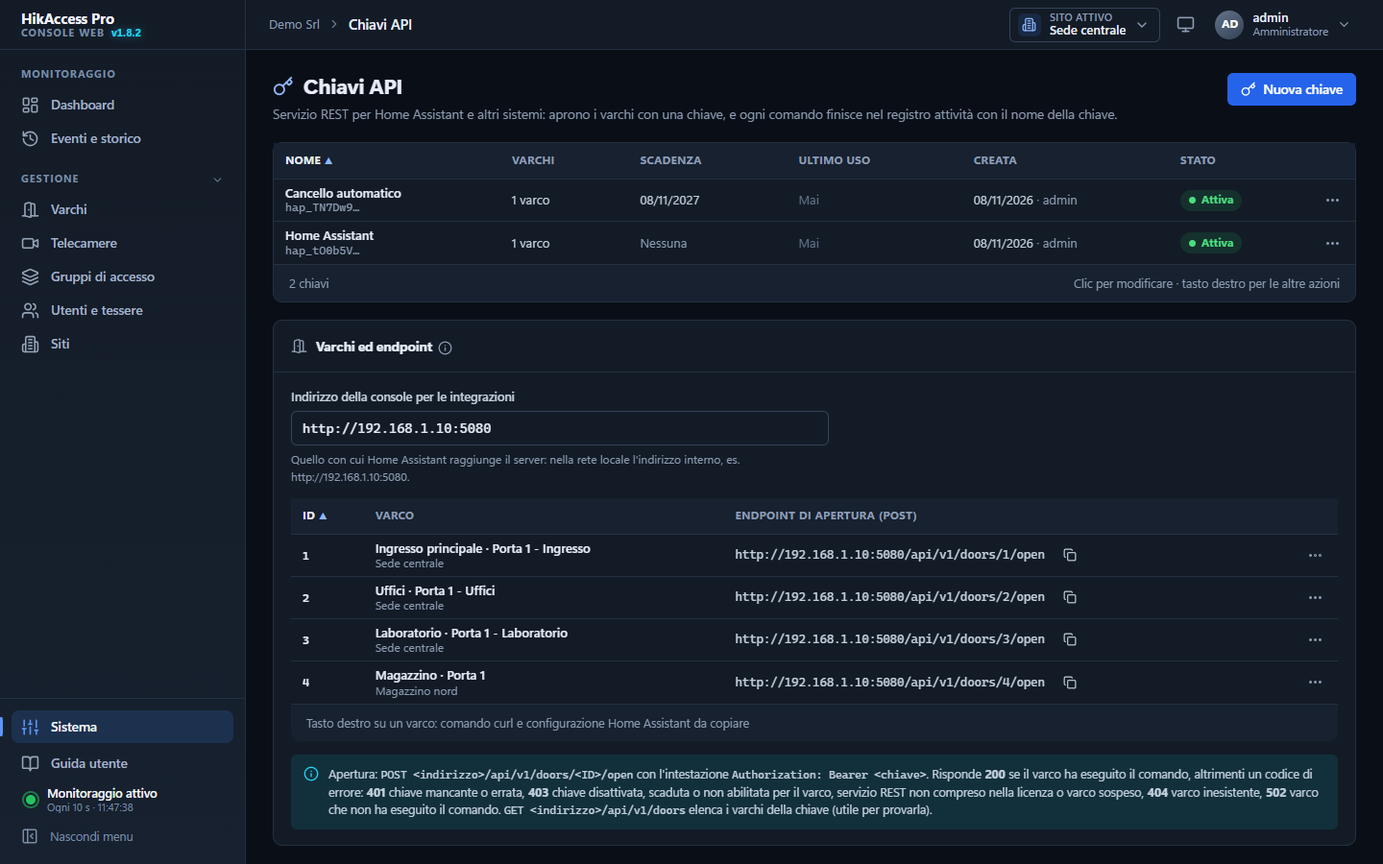
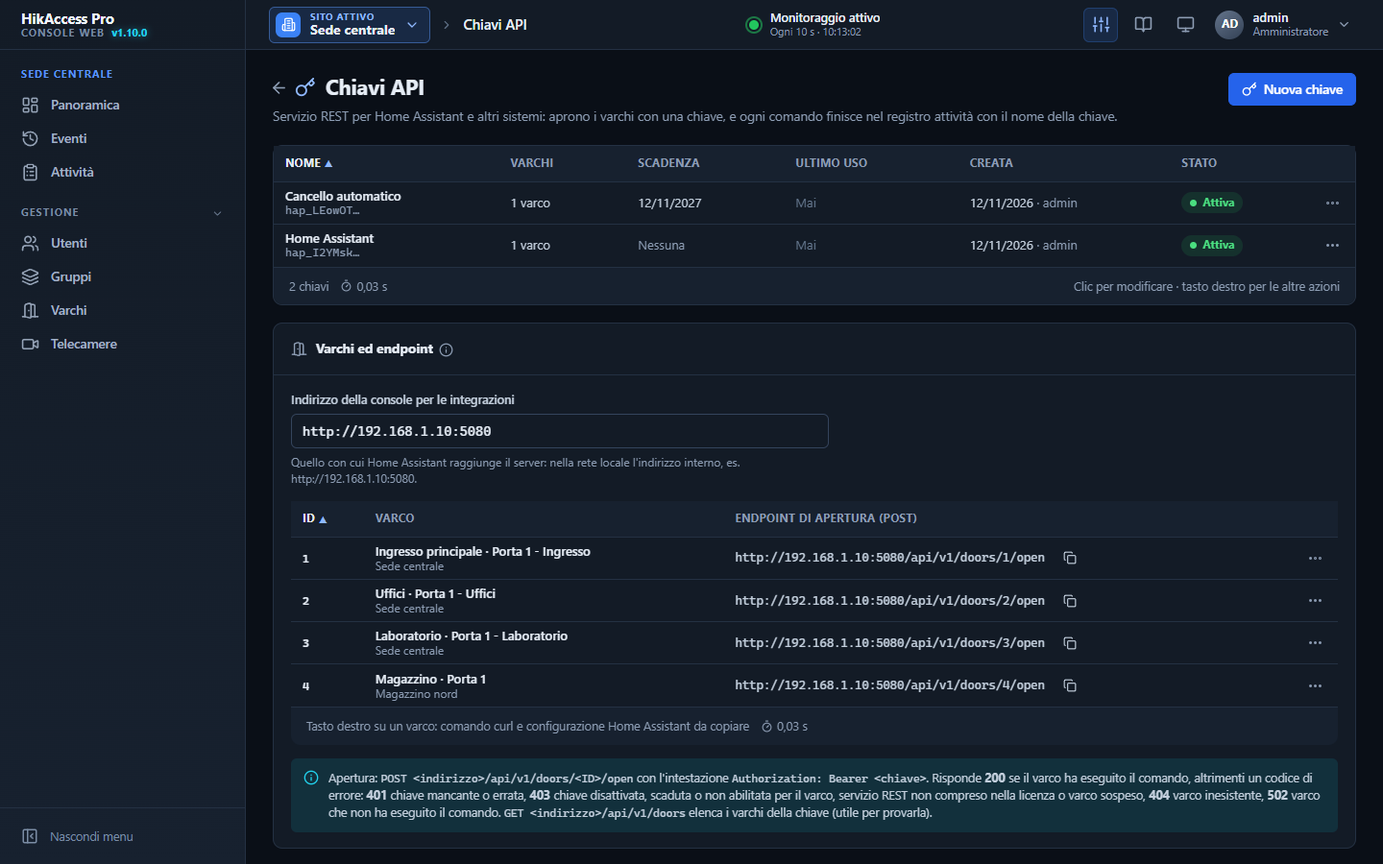
1.10.0: elenchi con filtri e vista a schede, menu del sito, calendario
Registro delle versioni con le novità della 1.10.0, presentazione aggiornata (Panoramica al posto di Dashboard, riquadro
su elenchi e calendario), guida utente rigenerata e immagini della console rifatte con la nuova interfaccia. Nel registro
gli esempi di controller citano solo il modello.

diff --git a/docs/guida-utente.md b/docs/guida-utente.md
@@ -3,11 +3,11 @@
 [← Torna alla presentazione](../README.md) · [Scarica il setup](https://github.com/brn78/HikAccess-Pro-Web/releases/latest)
 
 > [!NOTE]
-> È la stessa guida che si apre nella console con <kbd>F1</kbd> (menu **Guida utente**), aggiornata alla versione **1.9.0**. Nella console le icone <b>(i)</b> accanto ai campi rimandano direttamente al paragrafo giusto.
+> È la stessa guida che si apre nella console con <kbd>F1</kbd> (menu **Guida utente**), aggiornata alla versione **1.10.0**. Nella console le icone <b>(i)</b> accanto ai campi rimandano direttamente al paragrafo giusto.
 
 ## Indice
 
-- [Panoramica](#panoramica)
+- [Introduzione](#introduzione)
 - [Primo avvio e accesso](#accesso)
 - [L'interfaccia](#interfaccia)
 - [Ruoli e permessi](#ruoli)
@@ -15,7 +15,7 @@
 - [Varchi](#varchi)
 - [Gruppi di accesso](#gruppi)
 - [Utenti, tessere e PIN](#utenti)
-- [Dashboard](#dashboard)
+- [Panoramica](#dashboard)
 - [Eventi e storico](#eventi)
 - [Telecamere](#telecamere)
 - [Operazioni in background](#operazioni)
@@ -33,7 +33,7 @@ HikAccess Pro Web è la console per gestire il controllo accessi Hikvision di un
 > [!TIP]
 > **Come orientarsi.** L'indice a lato porta al capitolo desiderato; la casella **Cerca nella guida** evidenzia tutte le occorrenze di una parola (<kbd>Invio</kbd> passa alla successiva). Nelle schede della console le icone ⓘ spiegano il singolo campo e rimandano al punto giusto di questa guida. <kbd>F1</kbd> apre la guida da qualsiasi pagina; **Stampa / PDF** la salva su carta o in un file.
 
-## <a id="panoramica"></a>Panoramica
+## <a id="introduzione"></a>Introduzione
 
 La console è composta da due parti:
 
@@ -76,22 +76,25 @@ Un amministratore può reimpostarla da **Operatori**. Se a non ricordare la pass
 
 ### <a id="interfaccia-menu"></a>Menu laterale e barra superiore
 
-- Il **menu laterale** ha in alto **Monitoraggio** ( Dashboard, Eventi e storico) e **Gestione** ( Varchi, Telecamere, Gruppi, Utenti e tessere, Siti). Il gruppo Gestione si chiude con un clic sul titolo ⌄: il browser ricorda la scelta, e il gruppo si riapre da solo quando arrivi su una sua pagina. Accanto a «Console web» c'è la **versione in uso**. Il titolo di ogni pagina riporta la stessa icona della sua voce di menu.
-- In fondo al menu: **Sistema** ⚙ (solo amministratori) apre la [pagina con le funzioni di amministrazione](#sistema); un pallino sull'icona segnala una nuova versione o una [licenza](#sistema-licenza) da guardare (rosso se non è valida). Poi **Guida utente** 📖, la riga **Monitoraggio varchi** (scansione automatica attiva e ultima lettura; clic per la Dashboard) e **Nascondi menu** , che riduce il menu alle sole icone (con il monogramma «HA»). Il browser ricorda la scelta, a parte per le finestre strette, dove il menu parte ridotto; su telefono il menu si apre con ☰.
-- Nella **barra superiore** trovi il nome dell'impianto e della pagina, il contatore delle [operazioni in corso](#operazioni), il **selettore del sito attivo**, il pulsante del **tema** (chiaro, scuro o automatico come il sistema) e il menu con il tuo nome (profilo, impostazioni, guida, uscita).
+- Il **menu laterale** ha in alto il gruppo del **sito attivo**, che ne porta il nome: Panoramica, Eventi e, solo per gli amministratori, Attività (il [registro attività](#sistema-registro), che riguarda tutti i siti). Sotto c'è **Gestione**: Utenti, Gruppi, Varchi e Telecamere. Il gruppo Gestione si chiude con un clic sul titolo ⌄: il browser ricorda la scelta, e il gruppo si riapre da solo quando arrivi su una sua pagina. Accanto a «Console web» c'è la **versione in uso**. Il titolo di ogni pagina riporta la stessa icona della sua voce di menu. I [siti](#siti) non sono nel menu: si aprono dal selettore del sito in alto (**Gestisci siti…**, **Elenco siti** per chi non è amministratore) e dalla pagina Sistema.
+- In fondo al menu c'è **Nascondi menu** , che riduce il menu alle sole icone (con il monogramma «HA»). Il browser ricorda la scelta, a parte per le finestre strette, dove il menu parte ridotto; su telefono il menu si apre con ☰ e ha in fondo anche **Sistema** e **Guida utente**.
+- Nella **barra superiore** trovi a sinistra il **selettore del sito attivo** e il nome della pagina; al centro lo stato del **Monitoraggio varchi** (scansione automatica attiva e ora dell'ultima lettura; un clic porta alla Panoramica); a destra il contatore delle [operazioni in corso](#operazioni), le icone **Sistema** ⚙ (solo amministratori: apre la [pagina con le funzioni di amministrazione](#sistema); un pallino sull'icona segnala una nuova versione o una [licenza](#sistema-licenza) da guardare, rosso se non è valida) e **Guida utente** 📖, il pulsante del **tema** (chiaro, scuro o automatico come il sistema) e il menu con il tuo nome (profilo, impostazioni, guida, uscita).
 
 ### <a id="interfaccia-sito"></a>Il sito attivo
 
-Il **selettore del sito attivo** è in alto a sinistra, prima del nome della pagina: Dashboard, Varchi, Gruppi, Telecamere, Eventi e Utenti mostrano solo quel sito, perché ogni sito ha i suoi varchi, i suoi gruppi e le sue persone (una persona si può condividere con altri siti, vedi [Persone e siti](#utenti-siti)). Al cambio di sito il selettore pulsa e un avviso ricorda in quale sito stai lavorando, con la sua descrizione e i suoi numeri. Il sito scelto viene ricordato dal browser.
+Il **selettore del sito attivo** è in alto a sinistra, prima del nome della pagina: Panoramica, Varchi, Gruppi, Telecamere, Eventi e Utenti mostrano solo quel sito, perché ogni sito ha i suoi varchi, i suoi gruppi e le sue persone (una persona si può condividere con altri siti, vedi [Persone e siti](#utenti-siti)). Al cambio di sito il selettore pulsa e un avviso ricorda in quale sito stai lavorando, con la sua descrizione e i suoi numeri. Il sito scelto viene ricordato dal browser.
 
 ### <a id="interfaccia-tabelle"></a>Tabelle, schede e menu
 
-- Clic sull'intestazione di una colonna per **ordinare**; le caselle e i pulsanti sopra la tabella **filtrano**.
-- Regola unica in tutta la console: **un clic** su una riga, su un riquadro della dashboard o su un passaggio apre la scheda corrispondente (in sola consultazione per chi non può modificare); il **tasto destro** o il pulsante ⋯ aprono il menu delle azioni. Il piè di pagina di ogni tabella lo ricorda.
+- Clic sull'intestazione di una colonna per **ordinare**. Sopra la tabella, la **ricerca** filtra mentre scrivi; i filtri a tendina (gruppo, varco, tipo di evento, categoria) stanno nella finestra che si apre con l'imbuto : il numero sull'icona dice quanti sono attivi e sotto la barra compaiono le loro etichette, con la × per toglierli uno alla volta o **Togli tutti**. Le scelte rapide (Tutti, Online, Offline…) e il periodo restano nella barra; **Filtri…** è anche nel menu del tasto destro delle righe.
+- **Elenco o Schede**: in alto a destra della tabella scegli la vista. In **Schede** ogni voce è descritta per intero, comprese le colonne che nell'elenco si nascondono sugli schermi stretti, e si ordina con l'icona . Il browser ricorda la vista scelta per ogni elenco; sul telefono gli elenchi sono sempre a schede.
+- In basso a sinistra c'è il **numero delle righe** («3 di 7 utenti» quando la ricerca o un filtro ne nascondono alcune) con il tempo impiegato dal caricamento . L'elenco che chiude la pagina arriva fino in fondo alla finestra e scorre al suo interno, con la riga dei titoli sempre in vista; gli elenchi lunghi si disegnano 200 righe alla volta e le successive arrivano scorrendo, o con **Mostra altre**.
+- Regola unica in tutta la console: **un clic** su una riga, su un riquadro della Panoramica o su un passaggio apre la scheda corrispondente (in sola consultazione per chi non può modificare); il **tasto destro** o il pulsante ⋯ aprono il menu delle azioni. Il piè di pagina di ogni tabella lo ricorda.
 - Le schede di modifica si aprono in un **pannello laterale**; <kbd>Esc</kbd>, **Annulla** o un clic fuori le chiudono senza salvare. Se hai cambiato qualcosa, la console chiede prima conferma (**Chiudi senza salvare** oppure **Continua a modificare**), anche quando cambi pagina con il menu, con <kbd>F1</kbd> o con il tasto Indietro del browser.
-- **Selezione multipla** (pagine Utenti e Varchi, per amministratori e operatori): la casella all'inizio della riga la seleziona, quella nell'intestazione seleziona tutte le righe visualizzate; tenendo premuto <kbd>Maiusc</kbd> si seleziona l'intervallo dall'ultima casella toccata. Con almeno una riga scelta compare sopra la tabella la barra delle **operazioni sulle righe selezionate**, con il loro numero e **Deseleziona**. La selezione vale per le righe visualizzate: quelle tolte da un filtro o dalla ricerca escono dalla selezione, così un'operazione non tocca mai righe che non vedi.
+- **Selezione multipla** (pagine Utenti e Varchi, per amministratori e operatori): l'icona **Scegli più righe** , la prima in alto a sinistra della tabella, mostra le caselle. La casella all'inizio della riga la seleziona, quella nell'intestazione seleziona tutte le righe dell'elenco; tenendo premuto <kbd>Maiusc</kbd> si seleziona l'intervallo dall'ultima casella toccata. Con almeno una riga scelta compare sopra la tabella la barra delle **operazioni sulle righe selezionate**, con il loro numero e **Deseleziona**; le stesse operazioni sono nel menu del tasto destro su una delle righe scelte. Premendo di nuovo l'icona le caselle spariscono e la selezione si toglie. La selezione vale per le righe dell'elenco: quelle tolte da un filtro o dalla ricerca ne escono, così un'operazione non tocca mai righe che non vedi.
 - Le conferme e gli esiti compaiono come **notifiche** in alto a destra; gli errori restano più a lungo. Alcune notifiche hanno un pulsante (**Vedi log**, **Dettagli**) per aprire il resoconto completo.
 - I testi di esito, dettaglio e diagnostica (per esempio l'esito di **Sincronizza orario** varco per varco) hanno in alto a destra il pulsante ⧉ per copiarli negli appunti.
+- I **campi data** hanno a destra l'icona : un clic nel campo o sull'icona apre il **calendario**, con il lunedì in testa, oggi cerchiato, le domeniche e le [festività](#gruppi-festivita) dell'impianto in rosso e, sotto il mese, il giorno per esteso con il nome della festa. Un clic sul titolo passa ai mesi e poi agli anni; **Oggi** riporta alla data di oggi. Nei campi con data e ora (la validità di una persona) accanto al mese c'è l'elenco delle ore, ogni mezz'ora. La data si può sempre scrivere a mano, e il calendario la segue.
 - I campi contrassegnati da \* sono obbligatori.
 
 ### <a id="interfaccia-scorciatoie"></a>Scorciatoie da tastiera
@@ -105,6 +108,9 @@ Il **selettore del sito attivo** è in alto a sinistra, prima del nome della pag
 | <kbd>Tab</kbd> | Passa al comando successivo; con una finestra o una scheda aperta resta al suo interno. |
 | <kbd>Invio</kbd> o <kbd>Spazio</kbd> su un'intestazione | Ordina la tabella per quella colonna (le intestazioni si raggiungono con <kbd>Tab</kbd>). |
 | <kbd>Maiusc</kbd> + clic su una casella | Seleziona o deseleziona tutte le righe tra l'ultima casella toccata e questa. |
+| <kbd>Invio</kbd> su una riga | Apre la scheda, come il clic (le righe si raggiungono con <kbd>Tab</kbd>); <kbd>↑</kbd> <kbd>↓</kbd> passano alla riga sopra o sotto, il tasto Menu (o <kbd>Maiusc</kbd>+<kbd>F10</kbd>) apre il menu della riga. |
+| <kbd>↑</kbd> <kbd>↓</kbd> <kbd>Pag↑</kbd> <kbd>Pag↓</kbd> <kbd>Inizio</kbd> <kbd>Fine</kbd> | Scorrono l'elenco che occupa la pagina, quando il cursore non è in un campo. |
+| <kbd>Alt</kbd>+<kbd>↓</kbd> o <kbd>F4</kbd> in un campo data | Apre il calendario e ci porta il cursore: le frecce cambiano giorno, <kbd>Pag↑</kbd> e <kbd>Pag↓</kbd> il mese (con <kbd>Maiusc</kbd> l'anno), <kbd>Inizio</kbd> e <kbd>Fine</kbd> vanno a lunedì e domenica, <kbd>Invio</kbd> sceglie, <kbd>Esc</kbd> chiude. |
 
 ## <a id="ruoli"></a>Ruoli e permessi
 
@@ -112,7 +118,7 @@ Ogni account ha uno dei tre ruoli. Assegna a ciascuno il minimo necessario: la p
 
 | Funzione | Amministratore | Operatore | Sola lettura |
 | --- | :---: | :---: | :---: |
-| Dashboard, stato dei varchi, storico eventi | ✓ | ✓ | ✓ |
+| Panoramica, stato dei varchi, storico eventi | ✓ | ✓ | ✓ |
 | Video delle telecamere e immagini degli eventi | ✓ | ✓ | ✓ |
 | Elenchi di varchi, gruppi e utenti | ✓ | ✓ | solo consultazione, senza PIN |
 | Comandi porta (apri, chiudi, sblocco e blocco permanente), orologio, diagnostica | ✓ | ✓ | — |
@@ -129,18 +135,18 @@ Deve restare sempre almeno un amministratore abilitato: la console impedisce di 
 
 ## <a id="siti"></a>Siti
 
-Pagina **Siti** (modifiche riservate agli amministratori). Un sito è una sede con i propri varchi, gruppi, telecamere e persone: un sito nuovo nasce vuoto e quello che fai in un sito resta lì. Chi lavora in più sedi si **condivide** tra i siti (la matricola resta unica in tutto l'impianto, vedi [Persone e siti](#utenti-siti)).
+Pagina **Siti** (modifiche riservate agli amministratori): si apre dal selettore del sito in alto, con **Gestisci siti…** (**Elenco siti** per chi non è amministratore), o dalla pagina [Sistema](#sistema). Un sito è una sede con i propri varchi, gruppi, telecamere e persone: un sito nuovo nasce vuoto e quello che fai in un sito resta lì. Chi lavora in più sedi si **condivide** tra i siti (la matricola resta unica in tutto l'impianto, vedi [Persone e siti](#utenti-siti)).
 
 - **Nuovo sito**: nome e descrizione (la descrizione compare nell'avviso al cambio di sito). Alla creazione la console propone di renderlo attivo per aggiungere subito varchi e gruppi. La versione gratuita gestisce un solo sito; i siti oltre la [licenza](#sistema-licenza) sono segnati **Oltre la licenza** e i loro varchi sono sospesi.
 - **Rendi attivo**: cambia il sito attivo (equivale al selettore in alto a sinistra); un avviso conferma nome e descrizione del sito in cui stai lavorando.
 - **Elimina sito**: possibile solo se il sito non ha varchi, gruppi, telecamere né persone presenti solo lì, e mai per l'ultimo sito rimasto. Le persone condivise con altri siti perdono soltanto questo sito.
 
 > [!TIP]
-> Con un solo impianto basta il sito predefinito. Crea più siti quando le sedi hanno varchi, regole e persone distinte: ogni sito ha i suoi gruppi, le sue persone e la sua dashboard, e condividi solo chi deve entrare in più sedi.
+> Con un solo impianto basta il sito predefinito. Crea più siti quando le sedi hanno varchi, regole e persone distinte: ogni sito ha i suoi gruppi, le sue persone e la sua Panoramica, e condividi solo chi deve entrare in più sedi.
 
 ## <a id="varchi"></a>Varchi
 
-Pagina **Varchi**: tutti i terminali e le porte dei controller del sito attivo, con stato, canale di comunicazione, arrivo degli eventi, dispositivo, tempo di risposta e ultimo contatto. La colonna **Dispositivo** mostra il modello, ricavato dal seriale Hikvision (per esempio DS-K2602T), con il firmware sotto; il seriale completo compare passando con il mouse e si può cercare. I comandi sono nel menu del tasto destro; **Scansiona tutti** interroga subito tutti i varchi del sito. Con le caselle all'inizio delle righe si eseguono alcune operazioni su più varchi insieme (vedi [Operazioni su più varchi](#varchi-multipli)).
+Pagina **Varchi**: tutti i terminali e le porte dei controller del sito attivo, con stato, canale di comunicazione, arrivo degli eventi, dispositivo, tempo di risposta e ultimo contatto. La colonna **Dispositivo** mostra il modello, ricavato dal seriale Hikvision (per esempio DS-K2602T), con il firmware sotto; il seriale completo compare passando con il mouse e si può cercare. I comandi sono nel menu del tasto destro; **Scansiona tutti** interroga subito tutti i varchi del sito. Con **Scegli più righe** si eseguono alcune operazioni su più varchi insieme (vedi [Operazioni su più varchi](#varchi-multipli)).
 
 ### <a id="varchi-aggiungere"></a>Aggiungere un varco
 
@@ -185,11 +191,11 @@ La console tratta le porte dello stesso controller come un unico dispositivo: og
 - **In verifica**: il varco non è ancora stato interrogato (appena aggiunto o server appena avviato).
 - **Sospeso**: il varco supera i varchi consentiti dalla [licenza](#sistema-licenza). Resta configurato, ma non viene monitorato, non riceve comandi né utenti e non legge tessere; sopra l'elenco un avviso indica quanti sono.
 
-Lo stato viene aggiornato dalla **scansione automatica** del server (intervallo impostabile in [Impostazioni](#sistema-impostazioni), predefinito ogni 10 secondi) e a richiesta con **Scansiona tutti** o con **Aggiorna adesso** nella dashboard. La scansione legge anche i nuovi eventi.
+Lo stato viene aggiornato dalla **scansione automatica** del server (intervallo impostabile in [Impostazioni](#sistema-impostazioni), predefinito ogni 10 secondi) e a richiesta con **Scansiona tutti** o con **Aggiorna adesso** nella Panoramica. La scansione legge anche i nuovi eventi.
 
 ### <a id="varchi-tempo-reale"></a>Eventi in tempo reale
 
-Oltre alla scansione, il server tiene aperto con ogni controller un **collegamento in tempo reale** (HTTP: flusso di notifiche del dispositivo; SDK: armamento, come in iVMS-4200): il controller vi invia ogni passaggio appena avviene, che arriva in archivio, nella dashboard e nella **Cattura da varco** entro un secondo. La colonna **Eventi** della pagina Varchi ne mostra lo stato e nei riquadri della dashboard il simbolo indica i varchi collegati:
+Oltre alla scansione, il server tiene aperto con ogni controller un **collegamento in tempo reale** (HTTP: flusso di notifiche del dispositivo; SDK: armamento, come in iVMS-4200): il controller vi invia ogni passaggio appena avviene, che arriva in archivio, nella Panoramica e nella **Cattura da varco** entro un secondo. La colonna **Eventi** della pagina Varchi ne mostra lo stato e nei riquadri della Panoramica il simbolo indica i varchi collegati:
 
 | Stato | Significato |
 | --- | --- |
@@ -205,7 +211,7 @@ Se un controller, con il collegamento aperto, smette di rispondere alle altre ri
 
 ### <a id="varchi-comandi"></a>Comandi porta
 
-Disponibili ad amministratori e operatori dal menu del varco (pagina Varchi, dashboard ed eventi):
+Disponibili ad amministratori e operatori dal menu del varco (pagina Varchi, Panoramica ed eventi):
 
 | Comando | Effetto |
 | --- | --- |
@@ -245,7 +251,7 @@ I dispositivi Hikvision bloccano per un certo tempo (di solito 30 minuti) un acc
 
 ### <a id="varchi-multipli"></a>Operazioni su più varchi
 
-Seleziona i varchi con le caselle all'inizio delle righe (amministratori e operatori); nella barra sopra la tabella:
+Premi **Scegli più righe** e seleziona i varchi con le caselle all'inizio delle righe (amministratori e operatori); nella barra sopra la tabella:
 
 - **Invia utenti**: scrive **tutti gli utenti** dell'anagrafica sui controller selezionati, ciascuno con i suoi permessi attuali (concesso dove autorizzato, tolto dove no). Prima completa le [revoche in sospeso](#utenti-revoche) di quei controller. È il modo giusto dopo la **sostituzione o il ripristino** di un controller, senza riscrivere tutto l'impianto come il deploy atomico.
 - **Ricevi utenti**: legge persone e tessere dai controller selezionati e le unisce all'anagrafica (vedi [Ricevere gli utenti](#utenti-ricevere)); un controller con più porte selezionate viene letto una volta sola.
@@ -259,7 +265,7 @@ Dal menu del varco (amministratori): **Modifica parametri varco**, **Nuovo varco
 
 ## <a id="gruppi"></a>Gruppi di accesso
 
-Pagina **Gruppi di accesso**. Un gruppo è un **modello** di varchi autorizzati del sito attivo, ad esempio "Tutti i varchi", "Solo uffici", "Magazzino e carico". Serve a non dover spuntare i varchi uno per uno per ogni persona.
+Pagina **Gruppi**. Un gruppo è un **modello** di varchi autorizzati del sito attivo, ad esempio "Tutti i varchi", "Solo uffici", "Magazzino e carico". Serve a non dover spuntare i varchi uno per uno per ogni persona.
 
 - **Creare un gruppo**: nome, descrizione e spunta dei varchi del sito.
 - **Assegnarlo a un utente**: nella scheda utente, scegliendo un gruppo nel campo **Gruppo** i varchi spuntati diventano quelli del gruppo (l'avviso che compare ha il pulsante **Annulla** per tornare alle spunte di prima); puoi poi aggiungere o togliere varchi per quella persona. Scegliendo **Nessun gruppo** le spunte restano come sono. Il pulsante **Da gruppo** ricarica in qualsiasi momento i varchi del modello. Per assegnare un gruppo a molte persone insieme usa la [selezione multipla](#utenti-multipli) nella pagina Utenti.
@@ -304,7 +310,7 @@ Nella scheda di un gruppo con **Giorni e fasce orarie**, la riga **Festività** 
 
 ## <a id="utenti"></a>Utenti, tessere e PIN
 
-Pagina **Utenti e tessere**: le persone del sito attivo, comprese quelle condivise da altri siti (per le persone di un'altra sede cambia sito attivo, vedi [Persone e siti](#utenti-siti)). La colonna **Varchi sito** indica su quanti varchi del sito attivo la persona è autorizzata; i filtri sopra la tabella mostrano tutti, solo gli autorizzati sul sito, chi non ha varchi o i disabilitati. La ricerca lavora su nome, matricola e numeri di tessera. Per trovare il titolare di una tessera che hai in mano usa [Identifica badge](#utenti-identifica). Con le caselle all'inizio delle righe si opera su più persone insieme (vedi [Operazioni su più utenti](#utenti-multipli)).
+Pagina **Utenti**: le persone del sito attivo, comprese quelle condivise da altri siti (per le persone di un'altra sede cambia sito attivo, vedi [Persone e siti](#utenti-siti)). La colonna **Varchi sito** indica su quanti varchi del sito attivo la persona è autorizzata; i filtri sopra la tabella mostrano tutti, solo gli autorizzati sul sito, chi non ha varchi o i disabilitati. La ricerca lavora su nome, matricola e numeri di tessera. Per trovare il titolare di una tessera che hai in mano usa [Identifica badge](#utenti-identifica). Con **Scegli più righe** si opera su più persone insieme (vedi [Operazioni su più utenti](#utenti-multipli)).
 
 La scheda di una persona si apre sempre con i dati attuali del server, anche se l'elenco è stato caricato da un po'. Se nel frattempo un altro operatore (o una ricezione dai varchi) modifica la stessa persona, al salvataggio la console avvisa che la scheda «è stata modificata dopo che l'hai aperta» e propone **Riapri con i dati attuali**: così una scheda vecchia non toglie tessere o varchi aggiunti da altri. Annota prima le modifiche che vuoi rifare.
 
@@ -387,7 +393,7 @@ Con gli [eventi in tempo reale](#varchi-tempo-reale) attivi il numero compare no
 
 ### <a id="utenti-multipli"></a>Operazioni su più utenti
 
-Seleziona le persone con le caselle all'inizio delle righe (con i filtri e la ricerca puoi prima restringere l'elenco, poi usare la casella nell'intestazione per prenderle tutte). Nella barra sopra la tabella:
+Premi **Scegli più righe** e seleziona le persone con le caselle all'inizio delle righe (con i filtri e la ricerca puoi prima restringere l'elenco, poi usare la casella nell'intestazione per prenderle tutte). Nella barra sopra la tabella:
 
 - **Invia ai varchi**: **Tutti i varchi interessati** scrive ogni persona dove è autorizzata, in tutti i siti, e la toglie dagli altri varchi del sito attivo; **Solo alcuni varchi** la scrive soltanto sui controller dei varchi che spunti (per esempio un controller appena sostituito). Una sola operazione, annullabile, con il log per persona e controller.
 - **Assegna gruppo**: assegna un gruppo del sito (o **Nessun gruppo**); con **Applica i varchi del gruppo** i varchi del gruppo sostituiscono quelli del sito di ciascuna persona, con **Invia subito ai varchi** le persone vengono inviate con le fasce orarie del gruppo.
@@ -396,7 +402,7 @@ Seleziona le persone con le caselle all'inizio delle righe (con i filtri e la ri
 
 ### <a id="utenti-revoche"></a>Revoche in sospeso
 
-Quando togli una tessera, disabiliti o elimini una persona mentre un controller non risponde (spento, rete interrotta), quel controller continuerebbe ad accettare le tessere. La console annota la revoca **in sospeso** e la ritenta da sola ogni minuto e prima di ogni invio di utenti a quel controller, finché non riesce. Finché ce ne sono, in cima alla dashboard e alla pagina Utenti compare l'avviso **Revoche in sospeso**:
+Quando togli una tessera, disabiliti o elimini una persona mentre un controller non risponde (spento, rete interrotta), quel controller continuerebbe ad accettare le tessere. La console annota la revoca **in sospeso** e la ritenta da sola ogni minuto e prima di ogni invio di utenti a quel controller, finché non riesce. Finché ce ne sono, in cima alla Panoramica e alla pagina Utenti compare l'avviso **Revoche in sospeso**:
 
 - **Dettagli**: persona, tessere da togliere, controller, da quando e quanti tentativi, con l'ultimo errore;
 - **Riprova ora** (amministratori e operatori): ritenta subito, con il log dell'esito.
@@ -413,9 +419,9 @@ Dal menu del tasto destro sulla riga:
 - **Copia numero badge** / **Copia matricola** negli appunti.
 - **Elimina utente da anagrafica e varchi**: cancella la persona dalla console e da **tutti i varchi di tutti i siti**; le sue tessere smettono di aprire. L'operazione mostra l'esito per ogni varco.
 
-## <a id="dashboard"></a>Dashboard
+## <a id="dashboard"></a>Panoramica
 
-La **Dashboard** è il quadro d'insieme del sito attivo:
+La **Panoramica** è il quadro d'insieme del sito attivo:
 
 - **Indicatori**: varchi totali e online, utenti registrati e autorizzati sul sito, transiti di oggi (con il confronto di ieri) e accessi negati. I **transiti** sono le sole verifiche di persone (accessi concessi e negati): sincronizzazioni dell'ora, aperture da pulsante, porta aperta/chiusa, anomalie e allarmi non contano e, se presenti, sono indicati a parte come "altri eventi". Un clic su un indicatore apre il dettaglio: **Varchi** (i soli varchi offline, se qualcuno non risponde), **Utenti e tessere**, i **transiti di oggi** oppure i soli **accessi negati di oggi**.
 - **Stato varchi**: un riquadro per varco con stato, indirizzo, canale (con se gli eventi arrivano in tempo reale), tempo di risposta ed eventuale errore; clic sul riquadro per la scheda del varco, pulsante **Apri** e menu ⋯ con tutti i comandi, compreso **Stato porta**.
@@ -429,7 +435,7 @@ La pagina si **aggiorna da sola** con l'intervallo scelto in alto a destra (da 3
 
 ## <a id="eventi"></a>Eventi e storico
 
-Pagina **Eventi e storico**: tutti i passaggi, i tentativi negati e gli allarmi dei varchi del sito attivo, archiviati nel database della console.
+Pagina **Eventi**: tutti i passaggi, i tentativi negati e gli allarmi dei varchi del sito attivo, archiviati nel database della console.
 
 ### <a id="eventi-raccolta"></a>Come vengono raccolti
 
@@ -437,7 +443,7 @@ Con gli [eventi in tempo reale](#varchi-tempo-reale) ogni passaggio arriva in ar
 
 Ogni evento del controller ha un **numero progressivo**: se dopo una correzione all'indietro dell'orologio del dispositivo, o nella notte in cui finisce l'ora legale, alcuni eventi risultano registrati con un orario precedente all'ultimo letto, il salto nella numerazione li rivela e la console li va a cercare nelle due ore precedenti.
 
-**Nome e matricola**. I controller "a tessere" collegati con l'SDK (per esempio il Totem DS-K2602) registrano solo il numero della tessera: nome e matricola li aggiunge la console, cercando la tessera tra gli utenti dell'anagrafica (anche se il lettore omette gli zeri iniziali). Lo stesso vale per una tessera non ancora inviata a quel varco: l'evento "accesso negato" mostra comunque di chi è. Se una tessera viene assegnata a un utente dopo il passaggio, gli eventi già archiviati senza nome lo prendono entro la scansione successiva. Il nome mandato dai controller "a persone" resta quello registrato sul dispositivo.
+**Nome e matricola**. I controller "a tessere" collegati con l'SDK (per esempio il DS-K2602) registrano solo il numero della tessera: nome e matricola li aggiunge la console, cercando la tessera tra gli utenti dell'anagrafica (anche se il lettore omette gli zeri iniziali). Lo stesso vale per una tessera non ancora inviata a quel varco: l'evento "accesso negato" mostra comunque di chi è. Se una tessera viene assegnata a un utente dopo il passaggio, gli eventi già archiviati senza nome lo prendono entro la scansione successiva. Il nome mandato dai controller "a persone" resta quello registrato sul dispositivo.
 
 ### <a id="eventi-consultare"></a>Consultare e filtrare
 
@@ -483,7 +489,7 @@ Come per i varchi, se la telecamera rifiuta le credenziali il server smette di r
 
 ### <a id="telecamere-menu"></a>Menu della telecamera
 
-Nella scheda **Elenco**, il tasto destro o ⋯ su una riga apre il menu, con lo stesso ordine di quello dei varchi: in testa il nome e il modello.
+Nella scheda **Elenco**, il tasto destro o ⋯ su una riga apre il menu, con lo stesso ordine di quello dei varchi: in testa il nome e il modello. Lo stesso menu si apre dai riquadri della scheda **Dal vivo**, con il tasto destro o con ⋯ sotto il video.
 
 - **Apri il video**: il video dal vivo in una finestra grande.
 - **Verifica foto e video** (amministratori): la stessa prova della scheda, con i dati salvati; aggiorna modello, seriale e firmware.
@@ -496,7 +502,7 @@ I varchi associati non vengono copiati: ogni telecamera fotografa i passaggi che
 
 ### <a id="telecamere-video"></a>Video dal vivo
 
-La scheda **Dal vivo** mostra un riquadro per telecamera; un clic lo ingrandisce, e da lì si sceglie tra **Leggero** (flusso secondario) e **Alta qualità** (flusso principale) e si passa a schermo intero. Il video di un varco si apre anche dal pulsante con la telecamera nella Dashboard.
+La scheda **Dal vivo** mostra un riquadro per telecamera; un clic lo ingrandisce, e da lì si sceglie tra **Leggero** (flusso secondario) e **Alta qualità** (flusso principale) e si passa a schermo intero. Sotto ogni video, apre la scheda della telecamera (i dettagli, per chi non è amministratore), ingrandisce e ⋯ apre il [menu della telecamera](#telecamere-menu), senza passare dall'Elenco. Il video di un varco si apre anche dal pulsante con la telecamera nella Panoramica.
 
 - Il server riceve il video via RTSP e lo passa al browser così com'è, senza ricodificarlo: consuma pochissimo e la telecamera vede un solo collegamento, anche con più operatori. Il video non viene registrato: attraversa il server solo mentre qualcuno lo guarda, e la visione finisce nel [registro attività](#sistema-registro).
 - Servono le porte RTSP (554) e HTTP (80) della telecamera raggiungibili **dal server**; il browser parla solo con la console, quindi il video funziona anche da fuori, con un proxy che lascia passare i WebSocket.
@@ -510,7 +516,7 @@ Nella scheda della telecamera scegli i **varchi associati** e quali eventi fotog
 
 - Con gli [eventi in tempo reale](#varchi-tempo-reale) la foto parte appena il controller segnala il passaggio, quando la persona è ancora davanti alla telecamera.
 - Con la sola scansione periodica l'evento arriva in ritardo: se nella pagina Varchi la colonna Eventi dice **Solo scansione**, la foto mostra la scena di qualche secondo dopo. Il ritardo è scritto sotto l'immagine e, oltre 30 secondi, la foto non viene scattata perché non mostrerebbe più chi è passato.
-- Le anteprime compaiono nello storico [Eventi](#eventi-consultare) e in **Attività in tempo reale** della Dashboard, con il bordo verde per gli accessi concessi e rosso per quelli negati. Un clic apre l'immagine grande, con chi, dove, quando e il pulsante per scaricarla.
+- Le anteprime compaiono nello storico [Eventi](#eventi-consultare) e in **Attività in tempo reale** della Panoramica, con il bordo verde per gli accessi concessi e rosso per quelli negati. Un clic apre l'immagine grande, con chi, dove, quando e il pulsante per scaricarla.
 - La stessa foto accompagna l'avviso su [Telegram](#notifiche) degli operatori che hanno scelto di riceverla con l'evento.
 
 Una telecamera di altra marca senza indirizzo delle foto mostra il video, ma non può fotografare gli eventi.
@@ -603,7 +609,7 @@ Oltre all'esportazione, includi nei backup del server l'intera cartella dati (ve
 
 ## <a id="sistema"></a>Sistema
 
-La voce **Sistema** ⚙ in fondo al menu (solo amministratori) apre una pagina a schede: **Impostazioni**, [**Conservazione immagini**](#telecamere-privacy), **Operatori**, **Licenza**, **Backup e deploy**, **Chiavi API** e **Registro attività**. In cima, quando serve, gli avvisi: nuova versione disponibile, licenza non valida o in scadenza, varchi sospesi. Sulle pagine di amministrazione la voce Sistema resta evidenziata.
+L'icona **Sistema** ⚙ in alto a destra (solo amministratori; sul telefono è in fondo al menu) apre una pagina a schede: **Impostazioni**, [**Siti**](#siti), [**Conservazione immagini**](#telecamere-privacy), **Operatori**, **Licenza**, **Backup e deploy**, **Chiavi API** e **Registro attività**. In cima, quando serve, gli avvisi: nuova versione disponibile, licenza non valida o in scadenza, varchi sospesi. Sulle pagine di amministrazione l'icona Sistema resta evidenziata e davanti al titolo c'è la freccia **Torna a Sistema**.
 
 ### <a id="sistema-operatori"></a>Operatori
 
@@ -670,7 +676,7 @@ e in `secrets.yaml` la riga `hikaccess_api: "Bearer hap_…"` con la chiave. Dop
 
 **Oltre i limiti.** Senza la licenza adatta non si aggiungono siti o varchi oltre quelli consentiti e non si creano chiavi API: la console lo segnala con il collegamento **Vai alla pagina Licenza**. Se i varchi configurati sono più di quelli consentiti (licenza scaduta o rimossa, ripristino di un backup più grande), restano in uso i primi in ordine di ID dei primi siti e gli altri diventano **sospesi**: restano in elenco, ma non vengono monitorati, non ricevono comandi né utenti e non si leggono tessere da lì. Per sicurezza la revoca delle tessere tolte e l'eliminazione degli utenti raggiungono anche i varchi sospesi. Allo stesso modo le telecamere oltre il limite restano in elenco ma sospese, senza video né foto. Le licenze emesse prima delle telecamere ne comprendono una, come la versione gratuita.
 
-Alla scadenza la console torna da sola ai limiti della versione gratuita, senza perdere configurazione ed eventi; il pallino sulla voce Sistema e la pagina Sistema avvisano gli amministratori negli ultimi 30 giorni. Attivazioni, chiavi rifiutate e rimozioni finiscono nel [registro attività](#sistema-registro) (categoria **Licenza**).
+Alla scadenza la console torna da sola ai limiti della versione gratuita, senza perdere configurazione ed eventi; il pallino sull'icona Sistema e la pagina Sistema avvisano gli amministratori negli ultimi 30 giorni. Attivazioni, chiavi rifiutate e rimozioni finiscono nel [registro attività](#sistema-registro) (categoria **Licenza**).
 
 > [!NOTE]
 > **Trasferire la licenza** su un altro server, o dopo aver reinstallato Windows: dalla pagina Licenza del server nuovo invia una richiesta e scrivi nelle note che si tratta di un trasferimento. La chiave nuova sarà emessa per il nuovo codice macchina.
@@ -705,7 +711,7 @@ Quando la console è pubblicata su Internet tramite un **reverse proxy** (il rou
 
 ### <a id="sistema-registro"></a>Registro attività
 
-**Registro attività**: chi ha fatto cosa, quando, da quale indirizzo e con quale esito: accessi alla console (riusciti e falliti), comandi porta, modifiche a utenti, gruppi, varchi e siti, ripristini, deploy, cambi di impostazioni e operatori, aggiornamenti del programma e nuove versioni disponibili. Si filtra per periodo, categoria e testo libero e si esporta in CSV. La conservazione si imposta in Impostazioni.
+**Registro attività** (la voce **Attività** del menu, solo per gli amministratori; anche dalla pagina Sistema). Riguarda **tutti i siti**, non solo quello attivo: chi ha fatto cosa, quando, da quale indirizzo e con quale esito: accessi alla console (riusciti e falliti), comandi porta, modifiche a utenti, gruppi, varchi e siti, ripristini, deploy, cambi di impostazioni e operatori, aggiornamenti del programma e nuove versioni disponibili. Si filtra per periodo, categoria e testo libero e si esporta in CSV. La conservazione si imposta in Impostazioni.
 
 I comandi arrivati con una [chiave API](#sistema-chiavi-api) hanno al posto dell'operatore il nome della chiave («API · Home Assistant»): cercandolo si vedono tutti i comandi di quell'integrazione. La categoria **Chiavi API** raccoglie creazioni, modifiche ed eliminazioni delle chiavi e le richieste con chiavi errate, scadute o disattivate. La categoria **Licenza** raccoglie attivazioni, chiavi di attivazione rifiutate (con il motivo) e rimozioni della licenza.
 
@@ -808,7 +814,7 @@ L'esito dell'ultimo aggiornamento resta in Impostazioni; il log del setup è nel
 
 Una volta al giorno il server chiede a GitHub qual è l'ultima versione pubblicata di HikAccess Pro Web e la confronta con quella installata. Quando ne esce una nuova, gli **amministratori** vedono:
 
-- un **pallino** sulla voce **Sistema** del menu e un avviso in cima alla pagina Sistema, finché la versione nuova non viene installata;
+- un **pallino** sull'icona **Sistema** in alto a destra e un avviso in cima alla pagina Sistema, finché la versione nuova non viene installata;
 - un avviso al primo accesso, una volta per versione e per browser, con il collegamento **Vedi le novità**;
 - nel riquadro **Aggiornamento del programma**, la versione nuova con la data di pubblicazione, le **novità** e i pulsanti **Scarica e installa**, **Scarica il setup** e **Pagina della versione** (gli ultimi due aprono GitHub in un'altra scheda).
 
@@ -910,7 +916,7 @@ Nella scheda della persona controlla: utente abilitato, validità non scaduta, t
 <details>
 <summary><b>Una tessera rimossa apre ancora</b></summary>
 
-La revoca avviene al salvataggio della scheda. Se il controller in quel momento non rispondeva, la revoca è [in sospeso](#utenti-revoche): l'avviso in dashboard o nella pagina Utenti indica quale controller; controlla che sia raggiungibile e premi **Riprova ora**.
+La revoca avviene al salvataggio della scheda. Se il controller in quel momento non rispondeva, la revoca è [in sospeso](#utenti-revoche): l'avviso nella Panoramica o nella pagina Utenti indica quale controller; controlla che sia raggiungibile e premi **Riprova ora**.
 
 </details>
 

diff --git a/CHANGELOG.md b/CHANGELOG.md
@@ -3,6 +3,34 @@
 Il setup delle ultime versioni è nella pagina [Releases](https://github.com/brn78/HikAccess-Pro-Web/releases).
 Per aggiornare: *Sistema → Impostazioni → Aggiornamento del programma*, **Scarica e installa** (dalla 1.7.0) oppure caricando il setup; dati, account e licenza restano.
 
+## 1.10.0 · 12 novembre 2026
+
+Elenchi più comodi, il menu riordinato attorno al sito attivo e un calendario uguale in ogni browser.
+
+- **Elenchi**: la ricerca è sempre il primo campo e i filtri a tendina (gruppo, varco, tipo di evento, categoria)
+  stanno nella finestra che si apre con l'imbuto, con il numero dei filtri attivi e le loro etichette sotto la barra,
+  da togliere con un clic. In alto a destra scegli la vista **Elenco** o **Schede**, che il browser ricorda per ogni
+  elenco; nelle schede ogni voce è descritta per intero. In basso a sinistra trovi il numero delle righe («3 di 7
+  utenti») e il tempo del caricamento. L'elenco arriva fino in fondo alla finestra con i titoli delle colonne sempre in
+  vista, e quelli lunghi si disegnano 200 righe alla volta. Le righe si usano anche da tastiera: Tab, frecce e Invio.
+- **Scegli più righe**: nelle pagine *Utenti* e *Varchi* le caselle compaiono con l'icona in alto a sinistra
+  dell'elenco; le operazioni sulle righe scelte sono anche nel menu del tasto destro.
+- **Menu**: il primo gruppo porta il nome del sito attivo, con **Panoramica** (la pagina che si chiamava Dashboard),
+  **Eventi** e, per gli amministratori, **Attività** (il registro attività, che riguarda tutti i siti). Sotto c'è
+  **Gestione**: Utenti, Gruppi, Varchi e Telecamere. I **Siti** si aprono dal selettore del sito in alto e dalla pagina
+  *Sistema*.
+- **Barra in alto**: lo stato del monitoraggio è al centro; **Sistema** e **Guida utente** sono icone in alto a destra,
+  accanto al tema. Le pagine di amministrazione hanno davanti al titolo la freccia per tornare a *Sistema*.
+- **Calendario**: i campi data aprono il calendario della console al posto di quello del browser, con il lunedì in
+  testa, le domeniche e le festività dell'impianto in rosso e il nome della festa sotto il mese. Nei campi con data e
+  ora c'è accanto l'elenco delle ore. Da tastiera si apre con Alt+↓ o F4.
+- **Telecamere dal vivo**: sotto ogni video ci sono la matita per aprire la scheda della telecamera e il suo menu, anche
+  con il tasto destro, senza passare dall'elenco.
+- **Ricerca** anche negli elenchi di *Telecamere*, *Operatori* e *Siti*.
+
+**Da sapere.** Gli indirizzi delle pagine non cambiano, quindi collegamenti e segnalibri continuano a funzionare. Sul
+telefono *Sistema* e *Guida utente* restano voci in fondo al menu.
+
 ## 1.9.0 · 8 novembre 2026
 
 Ogni sito ha le sue persone, il sito attivo è sempre sott'occhio e gli avvisi Telegram arrivano con la foto.
@@ -206,7 +234,7 @@ quindi segnala pure ciò che non va.
 
 ## 1.6.2 · 7 ottobre 2026
 
-- **Nome e matricola negli eventi** dei controller che registrano solo la tessera, come il Totem DS-K2602 collegato
+- **Nome e matricola negli eventi** dei controller che registrano solo la tessera, come il DS-K2602 collegato
   con l'SDK: la console li prende dall'anagrafica, anche per gli eventi già archiviati. Vale anche per una tessera non
   ancora inviata al varco ("accesso negato") e per una tessera assegnata a un utente dopo il passaggio.
 - *Diagnostica*: allarme porta aperta "disattivato" invece di "dopo mai"; riga degli eventi in tempo reale più chiara.
@@ -257,7 +285,7 @@ quindi segnala pure ciò che non va.
 
 ## 1.5.1 · 6 ottobre 2026
 
-- Fasce orarie sui controller collegati con l'SDK Hikvision (porta 8000, es. Totem DS-K2602): corretta la scrittura
+- Fasce orarie sui controller collegati con l'SDK Hikvision (porta 8000, es. DS-K2602): corretta la scrittura
   del modello orario, che la 1.5.0 non riusciva a completare; se il firmware non supporta i comandi classici si usano
   quelli più recenti.
 

diff --git a/README.md b/README.md
@@ -32,7 +32,7 @@ dal tablet o dal telefono, con account personali e ruoli.
 Funziona anche su reti isolate, senza Internet e senza abbonamenti cloud: configurazione ed eventi restano sul tuo server.
 
 <p align="center">
-  <img src="docs/immagini/dashboard.png" alt="Dashboard con stato dei varchi, attività in tempo reale e transiti del giorno" width="100%">
+  <img src="docs/immagini/dashboard.png" alt="Panoramica del sito con stato dei varchi, attività in tempo reale e transiti del giorno" width="100%">
 </p>
 
 ## ✨ Funzionalità
@@ -63,7 +63,7 @@ ritentate da sole sui controller spenti). Invio, gruppo, abilitazione ed elimina
 
 **📊 Monitoraggio in tempo reale**<br>
 I controller inviano ogni passaggio appena avviene e il server legge comunque i loro registri senza saltare eventi,
-anche con la console chiusa: dashboard, accessi negati, storico degli eventi con ricerca ed esportazione CSV.
+anche con la console chiusa: panoramica del sito, accessi negati, storico degli eventi con ricerca ed esportazione CSV.
 
 **🎥 Telecamere**<br>
 Telecamere Hikvision o di altra marca con RTSP: video dal vivo nel browser, senza plugin e senza ricodifica, e una foto
@@ -90,6 +90,11 @@ scadenza per ogni chiave. *Con licenza.*
 Pubblicazione tramite un proxy HTTPS, per esempio KeenDNS dei router Keenetic, con il riconoscimento dei proxy
 attendibili.
 
+**🧭 Elenchi e calendario**<br>
+In ogni elenco ricerca, filtri raccolti in una finestra, vista a **elenco o a schede**, selezione di più righe e
+conteggio sempre in vista; il menu porta il nome del sito attivo. I campi data aprono un calendario uguale in ogni
+browser, con domeniche e festività in evidenza.
+
 **⚙ Pensato per il server**<br>
 Servizio di Windows con avvio automatico e icona di stato, backup e ripristino, invio di tutti gli utenti a tutti i
 varchi, avviso quando esce una nuova versione e aggiornamento in un clic con **Scarica e installa**.
@@ -114,7 +119,7 @@ varchi, avviso quando esce una nuova versione e aggiornamento in un clic con **S
 <td align="center"><img src="docs/immagini/festivita.png" alt="Calendario delle festività"><br><b>Festività</b>: nazionali, santo patrono e chiusure</td>
 </tr>
 <tr>
-<td align="center"><img src="docs/immagini/dashboard-chiaro.png" alt="Dashboard con il tema chiaro"><br><b>Tema chiaro o scuro</b>, anche automatico</td>
+<td align="center"><img src="docs/immagini/dashboard-chiaro.png" alt="Panoramica con il tema chiaro"><br><b>Tema chiaro o scuro</b>, anche automatico</td>
 <td align="center"><img src="docs/immagini/sistema.png" alt="Pagina Sistema"><br><b>Sistema</b>: impostazioni, operatori, licenza e backup</td>
 </tr>
 <tr>
@@ -123,7 +128,7 @@ varchi, avviso quando esce una nuova versione e aggiornamento in un clic con **S
 </tr>
 <tr>
 <td align="center"><img src="docs/immagini/guida.png" alt="Guida utente nella console"><br><b>Guida integrata</b>: <kbd>F1</kbd> da qualsiasi pagina</td>
-<td align="center"><img src="docs/immagini/mobile.png" alt="Dashboard sul telefono" width="46%"><br><b>Anche dal telefono</b></td>
+<td align="center"><img src="docs/immagini/mobile.png" alt="Panoramica sul telefono" width="46%"><br><b>Anche dal telefono</b></td>
 </tr>
 </table>
 
@@ -293,7 +298,7 @@ oppure eseguirlo sul server. Dati, account e licenza restano.
 <summary><b>Come faccio a sapere che è uscita una nuova versione?</b></summary>
 <br>
 Dalla versione 1.4.0 lo dice la console: una volta al giorno il server chiede a GitHub qual è l'ultima versione
-pubblicata e, se è più recente di quella installata, gli amministratori vedono un pallino sulla voce
+pubblicata e, se è più recente di quella installata, gli amministratori vedono un pallino sull'icona
 <b>Sistema</b> e, nel riquadro dell'aggiornamento, le novità e il pulsante <b>Scarica e installa</b>. Nulla si
 installa da solo e non viene inviato alcun dato dell'impianto; l'avviso si può disattivare dalle impostazioni.
 </details>
